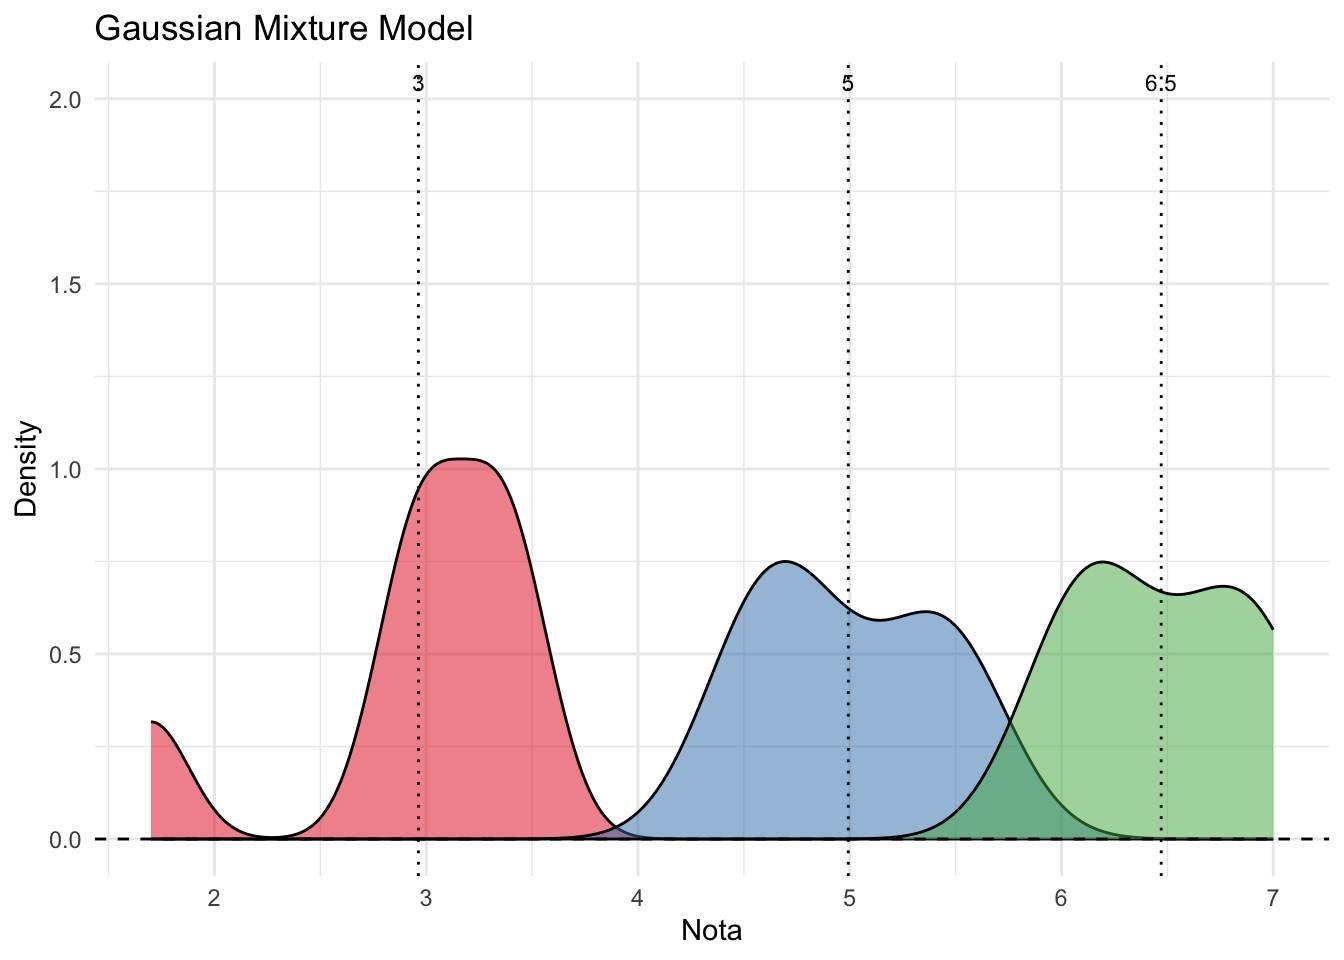
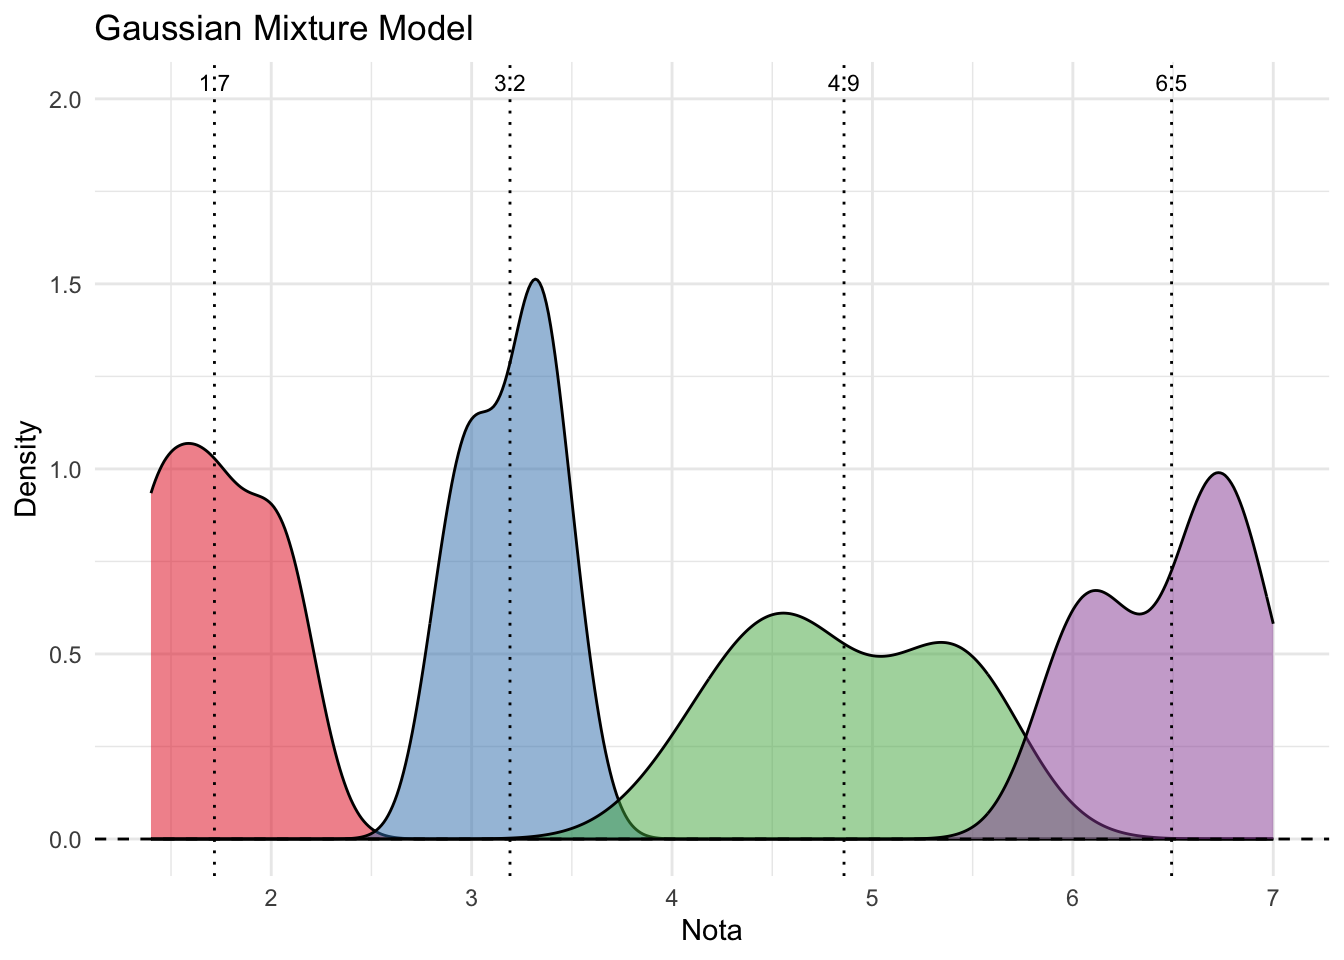
Update

Changed region(s): [[0.0938, 0.0625, 0.9688, 0.9375], [0.8438, 0.0625, 0.875, 0.0938], [0.375, 0.0625, 0.4062, 0.0938]]

diff --git a/exams/notas_prueba1.html b/exams/notas_prueba1.html
@@ -102,7 +102,7 @@ ul.task-list li input[type="checkbox"] {
 <td style="text-align: right;">7.0</td>
 <td style="text-align: right;">4.5</td>
 <td style="text-align: right;">6.22</td>
-<td style="text-align: right;">0.83</td>
+<td style="text-align: right;">0.79</td>
 </tr>
 <tr class="even">
 <td style="text-align: left;">21701909-5</td>
@@ -114,7 +114,31 @@ ul.task-list li input[type="checkbox"] {
 <td style="text-align: right;">7.0</td>
 <td style="text-align: right;">7.0</td>
 <td style="text-align: right;">5.50</td>
-<td style="text-align: right;">0.67</td>
+<td style="text-align: right;">0.64</td>
+</tr>
+<tr class="odd">
+<td style="text-align: left;">21575827-3</td>
+<td style="text-align: right;">4</td>
+<td style="text-align: right;">7.0</td>
+<td style="text-align: right;">5.0</td>
+<td style="text-align: right;">7</td>
+<td style="text-align: right;">7.0</td>
+<td style="text-align: right;">7.0</td>
+<td style="text-align: right;">1.0</td>
+<td style="text-align: right;">5.40</td>
+<td style="text-align: right;">0.61</td>
+</tr>
+<tr class="even">
+<td style="text-align: left;">21551561-3</td>
+<td style="text-align: right;">7</td>
+<td style="text-align: right;">4.0</td>
+<td style="text-align: right;">7.0</td>
+<td style="text-align: right;">7</td>
+<td style="text-align: right;">7.0</td>
+<td style="text-align: right;">7.0</td>
+<td style="text-align: right;">7.0</td>
+<td style="text-align: right;">6.70</td>
+<td style="text-align: right;">0.89</td>
 </tr>
 <tr class="odd">
 <td style="text-align: left;">19246028-K</td>
@@ -126,7 +150,7 @@ ul.task-list li input[type="checkbox"] {
 <td style="text-align: right;">7.0</td>
 <td style="text-align: right;">4.5</td>
 <td style="text-align: right;">4.57</td>
-<td style="text-align: right;">0.44</td>
+<td style="text-align: right;">0.46</td>
 </tr>
 <tr class="even">
 <td style="text-align: left;">21725304-7</td>
@@ -150,7 +174,7 @@ ul.task-list li input[type="checkbox"] {
 <td style="text-align: right;">2.0</td>
 <td style="text-align: right;">1.0</td>
 <td style="text-align: right;">4.90</td>
-<td style="text-align: right;">0.56</td>
+<td style="text-align: right;">0.54</td>
 </tr>
 <tr class="even">
 <td style="text-align: left;">21803109-9</td>
@@ -162,9 +186,21 @@ ul.task-list li input[type="checkbox"] {
 <td style="text-align: right;">5.5</td>
 <td style="text-align: right;">7.0</td>
 <td style="text-align: right;">6.62</td>
-<td style="text-align: right;">0.89</td>
+<td style="text-align: right;">0.82</td>
 </tr>
 <tr class="odd">
+<td style="text-align: left;">20591970-8</td>
+<td style="text-align: right;">3</td>
+<td style="text-align: right;">2.0</td>
+<td style="text-align: right;">1.0</td>
+<td style="text-align: right;">6</td>
+<td style="text-align: right;">1.0</td>
+<td style="text-align: right;">1.0</td>
+<td style="text-align: right;">1.0</td>
+<td style="text-align: right;">2.05</td>
+<td style="text-align: right;">0.11</td>
+</tr>
+<tr class="even">
 <td style="text-align: left;">20965392-3</td>
 <td style="text-align: right;">7</td>
 <td style="text-align: right;">7.0</td>
@@ -174,9 +210,9 @@ ul.task-list li input[type="checkbox"] {
 <td style="text-align: right;">1.0</td>
 <td style="text-align: right;">1.0</td>
 <td style="text-align: right;">3.30</td>
-<td style="text-align: right;">0.28</td>
+<td style="text-align: right;">0.27</td>
 </tr>
-<tr class="even">
+<tr class="odd">
 <td style="text-align: left;">21750628-K</td>
 <td style="text-align: right;">2</td>
 <td style="text-align: right;">1.0</td>
@@ -186,9 +222,9 @@ ul.task-list li input[type="checkbox"] {
 <td style="text-align: right;">1.0</td>
 <td style="text-align: right;">1.0</td>
 <td style="text-align: right;">3.05</td>
-<td style="text-align: right;">0.22</td>
+<td style="text-align: right;">0.21</td>
 </tr>
-<tr class="odd">
+<tr class="even">
 <td style="text-align: left;">21530251-2</td>
 <td style="text-align: right;">7</td>
 <td style="text-align: right;">7.0</td>
@@ -198,9 +234,9 @@ ul.task-list li input[type="checkbox"] {
 <td style="text-align: right;">1.0</td>
 <td style="text-align: right;">1.0</td>
 <td style="text-align: right;">3.34</td>
-<td style="text-align: right;">0.33</td>
+<td style="text-align: right;">0.32</td>
 </tr>
-<tr class="even">
+<tr class="odd">
 <td style="text-align: left;">21816972-4</td>
 <td style="text-align: right;">7</td>
 <td style="text-align: right;">7.0</td>
@@ -210,7 +246,43 @@ ul.task-list li input[type="checkbox"] {
 <td style="text-align: right;">7.0</td>
 <td style="text-align: right;">2.0</td>
 <td style="text-align: right;">6.18</td>
-<td style="text-align: right;">0.78</td>
+<td style="text-align: right;">0.75</td>
+</tr>
+<tr class="even">
+<td style="text-align: left;">21445742-3</td>
+<td style="text-align: right;">7</td>
+<td style="text-align: right;">7.0</td>
+<td style="text-align: right;">5.0</td>
+<td style="text-align: right;">7</td>
+<td style="text-align: right;">7.0</td>
+<td style="text-align: right;">7.0</td>
+<td style="text-align: right;">3.0</td>
+<td style="text-align: right;">6.00</td>
+<td style="text-align: right;">0.71</td>
+</tr>
+<tr class="odd">
+<td style="text-align: left;">21331548-K</td>
+<td style="text-align: right;">7</td>
+<td style="text-align: right;">7.0</td>
+<td style="text-align: right;">5.5</td>
+<td style="text-align: right;">7</td>
+<td style="text-align: right;">7.0</td>
+<td style="text-align: right;">7.0</td>
+<td style="text-align: right;">7.0</td>
+<td style="text-align: right;">6.70</td>
+<td style="text-align: right;">0.89</td>
+</tr>
+<tr class="even">
+<td style="text-align: left;">21010583-2</td>
+<td style="text-align: right;">7</td>
+<td style="text-align: right;">7.0</td>
+<td style="text-align: right;">2.0</td>
+<td style="text-align: right;">7</td>
+<td style="text-align: right;">1.0</td>
+<td style="text-align: right;">1.0</td>
+<td style="text-align: right;">1.0</td>
+<td style="text-align: right;">3.30</td>
+<td style="text-align: right;">0.27</td>
 </tr>
 <tr class="odd">
 <td style="text-align: left;">20833519-7</td>
@@ -234,7 +306,7 @@ ul.task-list li input[type="checkbox"] {
 <td style="text-align: right;">7.0</td>
 <td style="text-align: right;">7.0</td>
 <td style="text-align: right;">5.95</td>
-<td style="text-align: right;">0.72</td>
+<td style="text-align: right;">0.68</td>
 </tr>
 <tr class="odd">
 <td style="text-align: left;">21627537-3</td>
@@ -246,7 +318,7 @@ ul.task-list li input[type="checkbox"] {
 <td style="text-align: right;">1.0</td>
 <td style="text-align: right;">1.0</td>
 <td style="text-align: right;">3.00</td>
-<td style="text-align: right;">0.17</td>
+<td style="text-align: right;">0.18</td>
 </tr>
 <tr class="even">
 <td style="text-align: left;">21417889-3</td>
@@ -258,7 +330,7 @@ ul.task-list li input[type="checkbox"] {
 <td style="text-align: right;">1.0</td>
 <td style="text-align: right;">1.0</td>
 <td style="text-align: right;">2.85</td>
-<td style="text-align: right;">0.11</td>
+<td style="text-align: right;">0.14</td>
 </tr>
 <tr class="odd">
 <td style="text-align: left;">21763047-9</td>
@@ -270,9 +342,21 @@ ul.task-list li input[type="checkbox"] {
 <td style="text-align: right;">7.0</td>
 <td style="text-align: right;">7.0</td>
 <td style="text-align: right;">5.40</td>
-<td style="text-align: right;">0.61</td>
+<td style="text-align: right;">0.57</td>
 </tr>
 <tr class="even">
+<td style="text-align: left;">21180558-7</td>
+<td style="text-align: right;">4</td>
+<td style="text-align: right;">7.0</td>
+<td style="text-align: right;">7.0</td>
+<td style="text-align: right;">7</td>
+<td style="text-align: right;">7.0</td>
+<td style="text-align: right;">7.0</td>
+<td style="text-align: right;">7.0</td>
+<td style="text-align: right;">6.70</td>
+<td style="text-align: right;">0.89</td>
+</tr>
+<tr class="odd">
 <td style="text-align: left;">21627470-9</td>
 <td style="text-align: right;">2</td>
 <td style="text-align: right;">1.0</td>
@@ -282,9 +366,9 @@ ul.task-list li input[type="checkbox"] {
 <td style="text-align: right;">1.0</td>
 <td style="text-align: right;">1.0</td>
 <td style="text-align: right;">1.70</td>
-<td style="text-align: right;">0.06</td>
+<td style="text-align: right;">0.07</td>
 </tr>
-<tr class="odd">
+<tr class="even">
 <td style="text-align: left;">21388164-7</td>
 <td style="text-align: right;">7</td>
 <td style="text-align: right;">4.0</td>
@@ -294,9 +378,33 @@ ul.task-list li input[type="checkbox"] {
 <td style="text-align: right;">2.0</td>
 <td style="text-align: right;">1.0</td>
 <td style="text-align: right;">3.50</td>
-<td style="text-align: right;">0.39</td>
+<td style="text-align: right;">0.36</td>
+</tr>
+<tr class="odd">
+<td style="text-align: left;">21207645-7</td>
+<td style="text-align: right;">7</td>
+<td style="text-align: right;">7.0</td>
+<td style="text-align: right;">6.0</td>
+<td style="text-align: right;">6</td>
+<td style="text-align: right;">4.0</td>
+<td style="text-align: right;">1.0</td>
+<td style="text-align: right;">1.0</td>
+<td style="text-align: right;">4.40</td>
+<td style="text-align: right;">0.43</td>
 </tr>
 <tr class="even">
+<td style="text-align: left;">21043499-2</td>
+<td style="text-align: right;">2</td>
+<td style="text-align: right;">7.0</td>
+<td style="text-align: right;">4.0</td>
+<td style="text-align: right;">7</td>
+<td style="text-align: right;">7.0</td>
+<td style="text-align: right;">1.0</td>
+<td style="text-align: right;">1.0</td>
+<td style="text-align: right;">4.10</td>
+<td style="text-align: right;">0.39</td>
+</tr>
+<tr class="odd">
 <td style="text-align: left;">21650971-4</td>
 <td style="text-align: right;">7</td>
 <td style="text-align: right;">7.0</td>
@@ -306,7 +414,19 @@ ul.task-list li input[type="checkbox"] {
 <td style="text-align: right;">7.0</td>
 <td style="text-align: right;">6.0</td>
 <td style="text-align: right;">6.85</td>
-<td style="text-align: right;">0.94</td>
+<td style="text-align: right;">0.96</td>
+</tr>
+<tr class="even">
+<td style="text-align: left;">20828390-1</td>
+<td style="text-align: right;">2</td>
+<td style="text-align: right;">4.0</td>
+<td style="text-align: right;">1.0</td>
+<td style="text-align: right;">1</td>
+<td style="text-align: right;">1.0</td>
+<td style="text-align: right;">1.0</td>
+<td style="text-align: right;">1.0</td>
+<td style="text-align: right;">1.40</td>
+<td style="text-align: right;">0.04</td>
 </tr>
 </tbody>
 </table>
@@ -351,52 +471,52 @@ ul.task-list li input[type="checkbox"] {
 <tbody>
 <tr class="odd">
 <td style="text-align: left;">1.a</td>
-<td style="text-align: right;">6.44</td>
+<td style="text-align: right;">5.93</td>
 <td style="text-align: right;">2</td>
 <td style="text-align: right;">7</td>
-<td style="text-align: right;">1.62</td>
+<td style="text-align: right;">1.94</td>
 </tr>
 <tr class="even">
 <td style="text-align: left;">1.b</td>
-<td style="text-align: right;">4.97</td>
+<td style="text-align: right;">5.30</td>
 <td style="text-align: right;">1</td>
 <td style="text-align: right;">7</td>
-<td style="text-align: right;">2.48</td>
+<td style="text-align: right;">2.29</td>
 </tr>
 <tr class="odd">
 <td style="text-align: left;">2</td>
-<td style="text-align: right;">4.44</td>
+<td style="text-align: right;">4.41</td>
 <td style="text-align: right;">1</td>
 <td style="text-align: right;">7</td>
-<td style="text-align: right;">2.18</td>
+<td style="text-align: right;">2.17</td>
 </tr>
 <tr class="even">
 <td style="text-align: left;">3.a</td>
-<td style="text-align: right;">6.17</td>
+<td style="text-align: right;">6.18</td>
 <td style="text-align: right;">1</td>
 <td style="text-align: right;">7</td>
-<td style="text-align: right;">1.54</td>
+<td style="text-align: right;">1.63</td>
 </tr>
 <tr class="odd">
 <td style="text-align: left;">3.b</td>
-<td style="text-align: right;">4.19</td>
+<td style="text-align: right;">4.45</td>
 <td style="text-align: right;">1</td>
 <td style="text-align: right;">7</td>
-<td style="text-align: right;">2.62</td>
+<td style="text-align: right;">2.67</td>
 </tr>
 <tr class="even">
 <td style="text-align: left;">3.c</td>
-<td style="text-align: right;">4.03</td>
+<td style="text-align: right;">4.02</td>
 <td style="text-align: right;">1</td>
 <td style="text-align: right;">7</td>
-<td style="text-align: right;">2.92</td>
+<td style="text-align: right;">2.95</td>
 </tr>
 <tr class="odd">
 <td style="text-align: left;">3.d</td>
-<td style="text-align: right;">3.39</td>
+<td style="text-align: right;">3.25</td>
 <td style="text-align: right;">1</td>
 <td style="text-align: right;">7</td>
-<td style="text-align: right;">2.74</td>
+<td style="text-align: right;">2.73</td>
 </tr>
 </tbody>
 </table>

diff --git a/README.md b/README.md
@@ -64,7 +64,7 @@ Este repositorio contiene el material del curso SOL114 Análisis de Datos II (Pr
 | Tarea corta 1 |  4 agosto            |  11 agosto       |  [`[TC1]`](https://mebucca.github.io/ad2-sol114/homework/tc_1#1) [`[TC1.qmd]`](homework/tc_1.qmd)         |
 | Tarea corta 2 |  13 agosto           |  20 agosto       |  [`[TC2]`](https://mebucca.github.io/ad2-sol114/homework/tc_2#1) [`[TC2.qmd]`](homework/tc_2.qmd)         |
 | Tarea corta 3 |  25 agosto           |  1 septiembre    |  [`[TC3]`](https://mebucca.github.io/ad2-sol114/homework/tc_3#1) [`[TC3.qmd]`](homework/tc_3.qmd)         |
-| Prueba 1      |            |         |          |
+| Prueba 1      |            |         | [`[Notas]`](https://mebucca.github.io/ad2-sol114/exams/notas_prueba1.html)  |
 | Tarea corta 4 |            |         |          |
 | Tarea corta 5 |            |         |          |
 | Prueba 2      |            |         |          |
